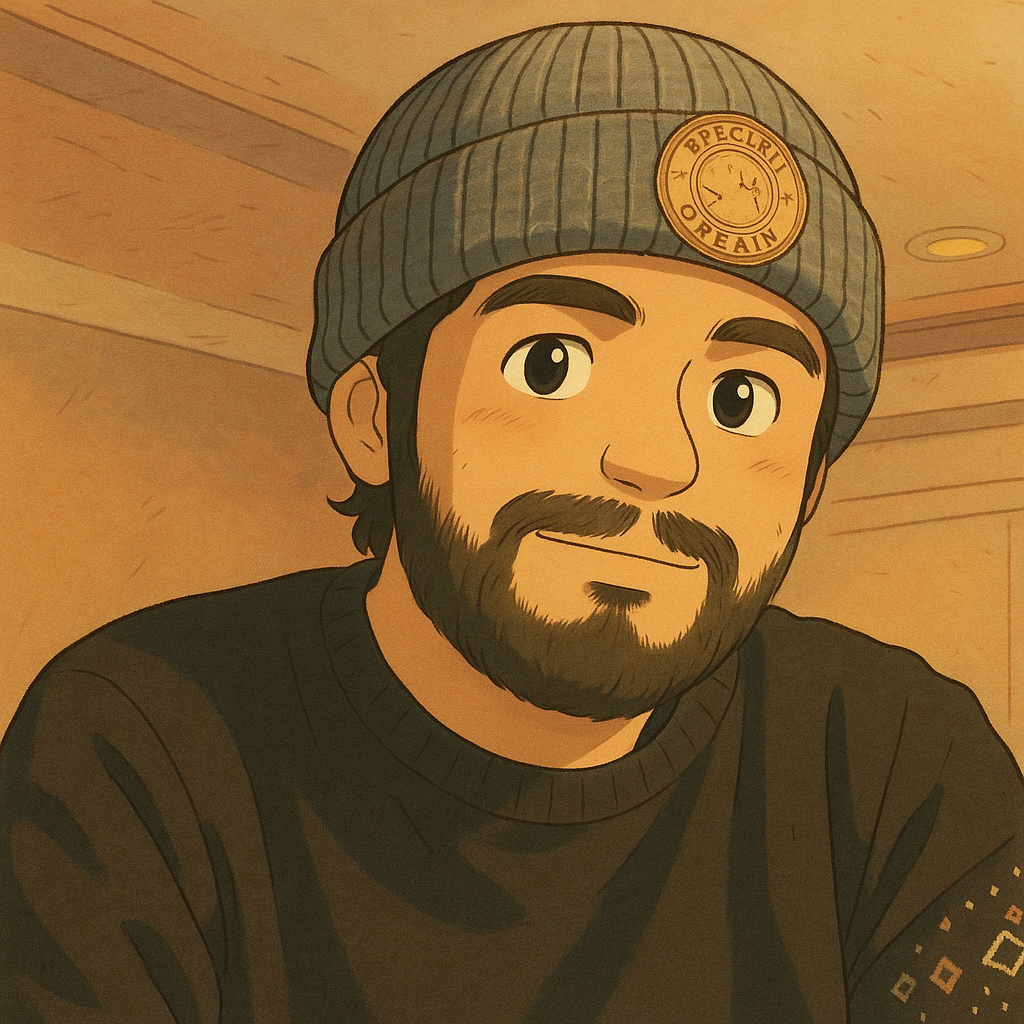
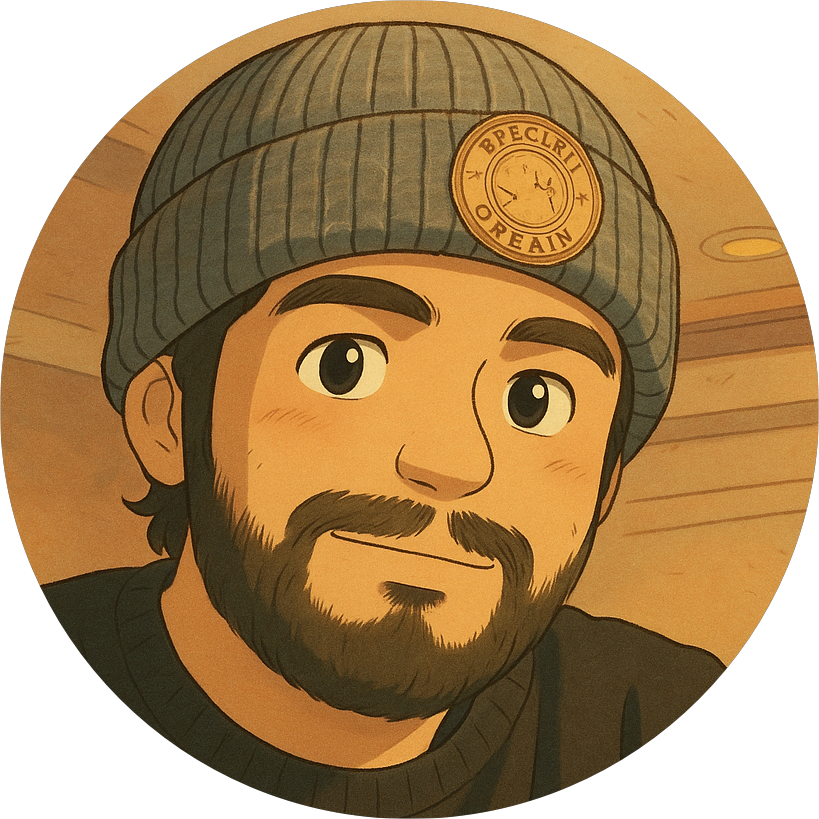
rd

diff --git a/projects.html b/projects.html
@@ -2,8 +2,7 @@
 <html lang="en">
 <head>
      <!-- Favicon -->
-    <link rel="icon" type="image/png" href="assets\gptdp_optimized_100.png" sizes="32x32">
-    
+    <link rel="icon" type="image/png" href="assets\gptdp.png" sizes="32x32">
     <meta charset="UTF-8">
     <meta name="viewport" content="width=device-width, initial-scale=1.0">
     <title>Ujwal Waghray | Projects</title>

diff --git a/contact.html b/contact.html
@@ -2,7 +2,7 @@
 <html lang="en">
 <head>
      <!-- Favicon -->
-    <link rel="icon" type="image/png" href="assets\gptdp_optimized_100.png" sizes="32x32">
+    <link rel="icon" type="image/png" href="assets\gptdp.png" sizes="32x32">
     
     <meta charset="UTF-8">
     <meta name="viewport" content="width=device-width, initial-scale=1.0">

diff --git a/education.html b/education.html
@@ -2,7 +2,7 @@
 <html lang="en">
 <head>
      <!-- Favicon -->
-    <link rel="icon" type="image/png" href="assets\gptdp_optimized_100.png" sizes="32x32">
+    <link rel="icon" type="image/png" href="assets\gptdp.png" sizes="32x32">
     
     <meta charset="UTF-8">
     <meta name="viewport" content="width=device-width, initial-scale=1.0">

diff --git a/skills.html b/skills.html
@@ -2,7 +2,7 @@
 <html lang="en">
 <head>
      <!-- Favicon -->
-    <link rel="icon" type="image/png" href="assets\gptdp_optimized_100.png" sizes="32x32">
+    <link rel="icon" type="image/png" href="assets\gptdp.png" sizes="32x32">
     
     <meta charset="UTF-8">
     <meta name="viewport" content="width=device-width, initial-scale=1.0">

diff --git a/experience.html b/experience.html
@@ -2,7 +2,7 @@
 <html lang="en">
 <head>
      <!-- Favicon -->
-    <link rel="icon" type="image/png" href="assets\gptdp_optimized_100.png" sizes="32x32">
+    <link rel="icon" type="image/png" href="assets\gptdp.png" sizes="32x32">
 
     
     <meta charset="UTF-8">

diff --git a/index.html b/index.html
@@ -2,7 +2,7 @@
 <html lang="en">
 <head>
      <!-- Favicon -->
-    <link rel="icon" type="image/png" href="assets\gptdp_optimized_100.png" sizes="32x32">
+    <link rel="icon" type="image/png" href="assets\gptdp.png" sizes="32x32">
     
 
     <meta charset="UTF-8">
